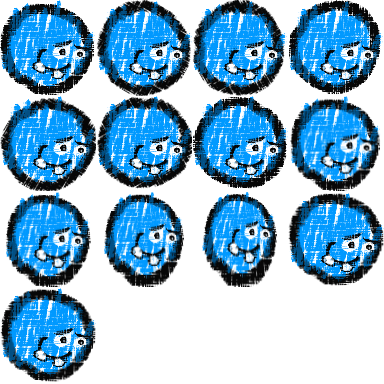
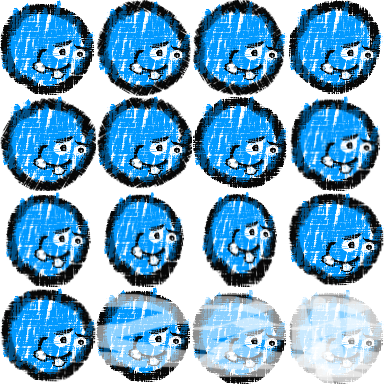
Add player dying animation

Changed region(s): [[0.25, 0.75, 1.0, 1.0]]

diff --git a/Platformer/Platformer/Platformer/Player.cs b/Platformer/Platformer/Platformer/Player.cs
@@ -34,6 +34,8 @@ namespace Platformer
 
         private int _currentWalkingFrame;
         private int _currentJumpingFrame;
+        private int _currentDyingFrame;
+        private bool _isDead;
         private float _timer;
         private List<Rectangle> WalkingAnimation { get; } = new List<Rectangle>
         {
@@ -54,6 +56,13 @@ namespace Platformer
             new Rectangle(192, 192, 96, 96),
             new Rectangle(288, 192, 96, 96),
             new Rectangle(0, 288, 96, 96),
+        };
+
+        private List<Rectangle> DyingAnimation { get; } = new List<Rectangle>
+        {
+            new Rectangle(96, 288, 96, 96),
+            new Rectangle(192, 288, 96, 96),
+            new Rectangle(288, 288, 96, 96)
         };
 
         public static Texture2D PlayerSheet { get; set; }
@@ -83,7 +92,17 @@ namespace Platformer
 
             _isAbleToJump = Math.Abs(Velocity.Y) < Tolerance;
 
-            if (_isAbleToJump)
+            if (_isDead)
+            {
+                if (_timer <= 0)
+                    _currentDyingFrame++;
+                _currentWalkingFrame = 0;
+                _currentJumpingFrame = 0;
+
+                if (_currentDyingFrame >= DyingAnimation.Count)
+                    Destroy();
+            }
+            else if (_isAbleToJump)
             {
                 if (_timer <= 0)
                     _currentWalkingFrame++;
@@ -115,7 +134,7 @@ namespace Platformer
 
         public override void Draw(SpriteBatch sb)
         {
-            sb.Draw(PlayerSheet, Bounds, _isAbleToJump ? WalkingAnimation[_currentWalkingFrame] : JumpingAnimation[_currentJumpingFrame], Color.White, 0f, Vector2.Zero, _spriteEffects, 1f);
+            sb.Draw(PlayerSheet, Bounds, _isDead ? DyingAnimation[_currentDyingFrame] : _isAbleToJump ? WalkingAnimation[_currentWalkingFrame] : JumpingAnimation[_currentJumpingFrame], Color.White, 0f, Vector2.Zero, _spriteEffects, 1f);
 
             //DebugCollisionPoints(sb);
         }
@@ -136,7 +155,7 @@ namespace Platformer
                     muffinMan.Bounds.Contains(_collisionPoints[4]) ||
                     muffinMan.Bounds.Contains(_collisionPoints[5]))
                 {
-                    Destroy();
+                    _isDead = true;
                 }
             });
         }
